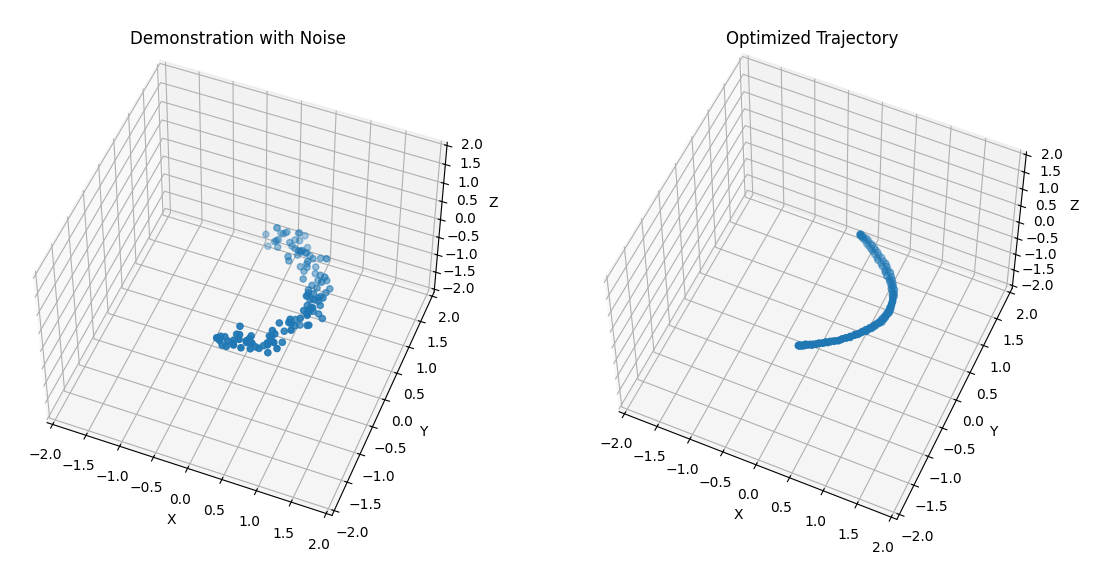
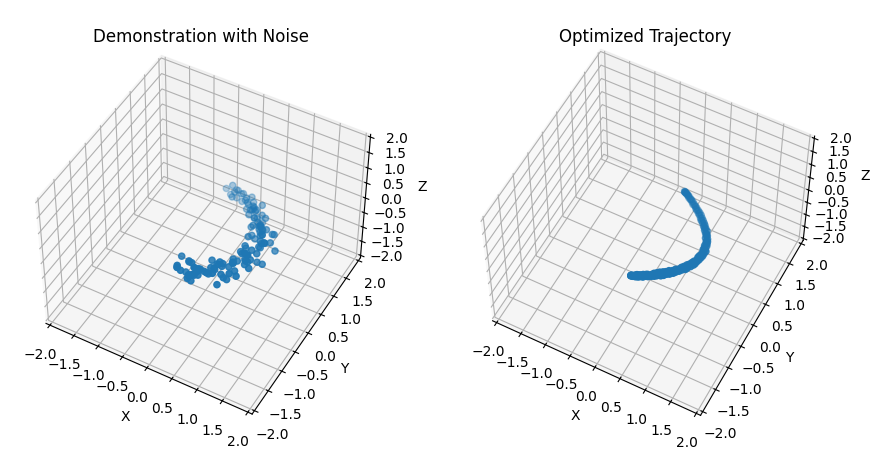
6/18

Changed region(s): [[0.5198, 0.0596, 1.0, 0.983], [0.0306, 0.1191, 0.4587, 0.983], [0.0917, 0.0596, 0.3669, 0.0894]]

diff --git a/franka-pybullet/SpectrumAnalysis/filter.py b/franka-pybullet/SpectrumAnalysis/filter.py
@@ -191,18 +191,18 @@ if __name__ == "__main__":
     # trajectory1 = Generate_trajectory(128, 0, 'circle')
     # trajectory1 = Generate_trajectory(128, 0.1, 'linear')
     # trajectory1 = Generate_trajectory(128, 0.1, 's-shape')
-    # trajectory1 = Generate_trajectory(128, 0.1, 'round')
-    # trajectory1 = Generate_trajectory(128, 0, 'rounds')
-    # trajectory1 = Generate_trajectory(128, 0, 'back_circle')
-    trajectory1 = Generate_trajectory(128, 0.1, 'back_s-shape')
+    trajectory1 = Generate_trajectory(128, 0.1, 'round')
+    # trajectory1 = Generate_trajectory(128, 0.1, 'rounds')
+    # trajectory1 = Generate_trajectory(128, 0.1, 'back_circle')
+    # trajectory1 = Generate_trajectory(128, 0.1, 'back_s-shape')
     plt_trajectory(traj=trajectory1)
 
     # calculate FFT
     trajFFT1 = FFT(trajectory1, isshift)
     plt_freq(np.abs(trajFFT1))
-    trajFFT1 = supperess_noise(trajFFT1)
+    # trajFFT1 = supperess_noise(trajFFT1)
     # trajFFT1 = normization_noise(trajFFT1)
-    # trajFFT1 = lower_filter(trajFFT1)
+    trajFFT1 = lower_filter(trajFFT1)
     plt_freq(np.abs(trajFFT1))
     trajiFFT1 = IFFT(trajFFT1, isshift)
     print(trajiFFT1.real)
